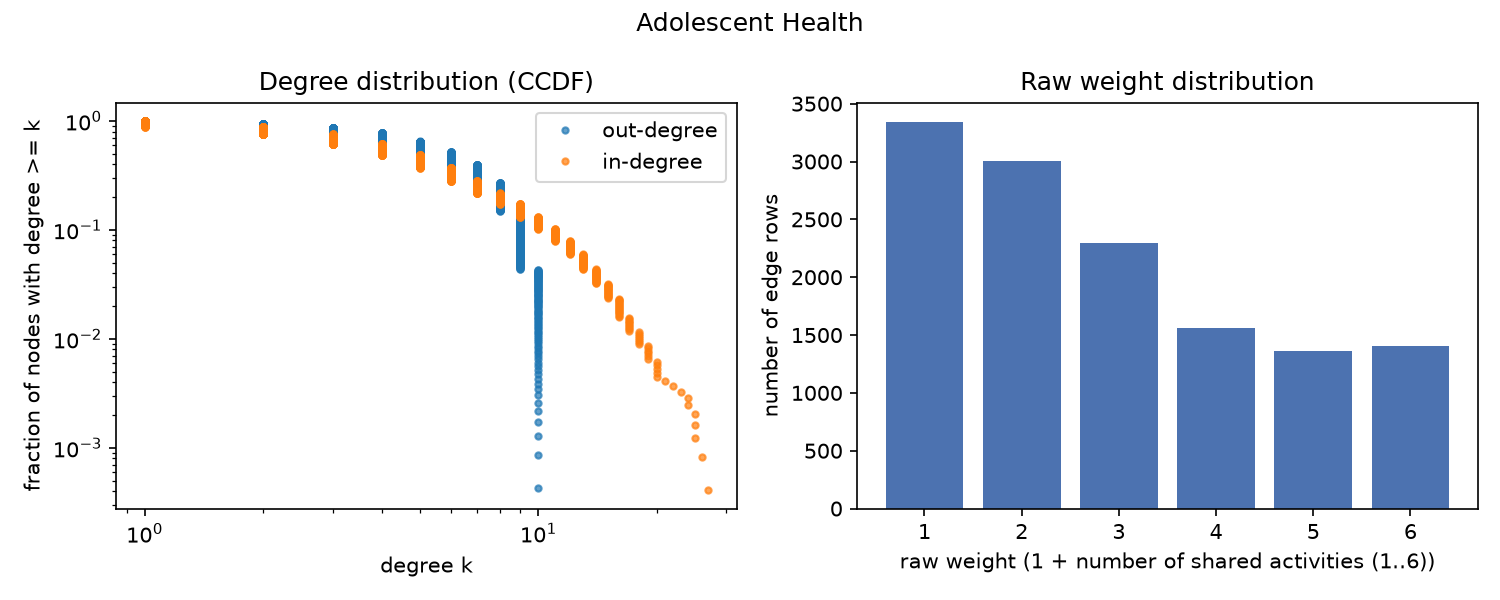
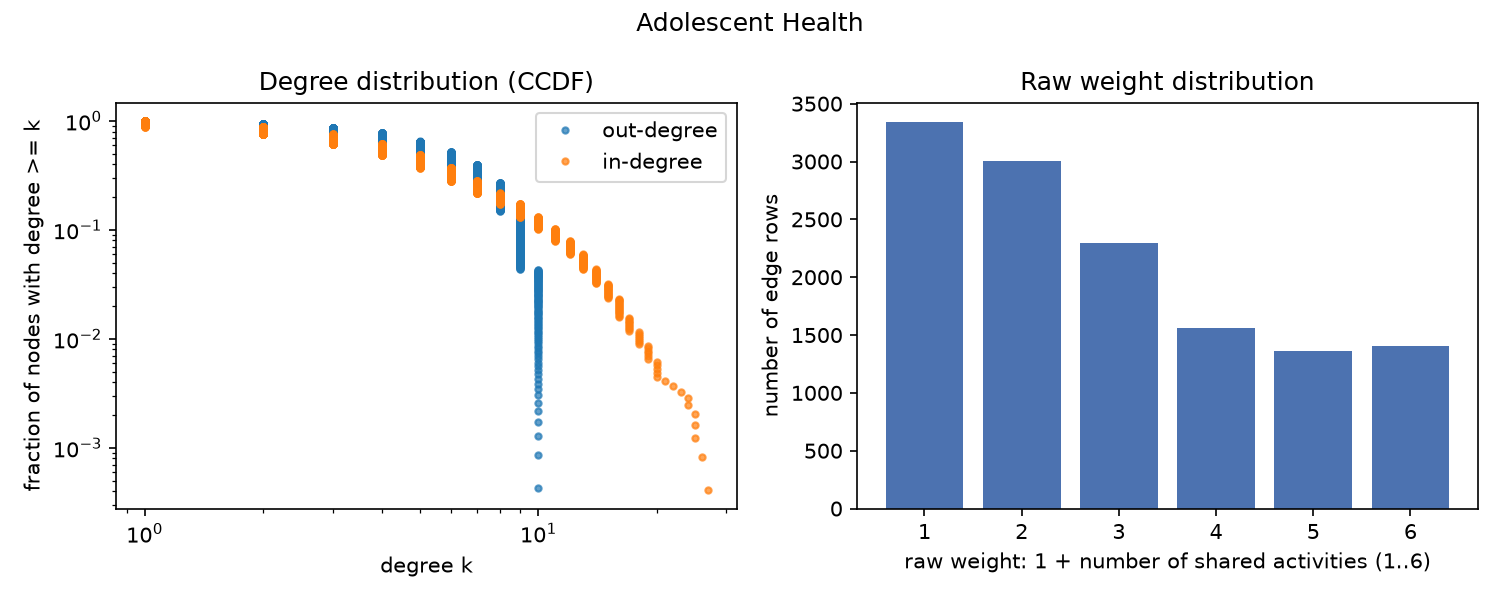
Phase 2: Advogato loader, decisions D6/D6b/D6c; Phase 2 complete
- load_advogato: Netzschleuder CSV zip with usernames; 0.6/0.8/1.0 trust
  levels (observer 0.4 never occurs); 3,992 self-certifications
- D6: distance = 1/trust level (same rule as D1, D5); never a detour since
  2 x 1.00 > 1.67. D6b: drop self-loops. D6c: drop unlinked users -> 5,155
- decisions.md: cross-dataset summary table and one-line rules
- describe script: non-overlapping bars, wrapped axis labels

Changed region(s): [[0.5827, 0.9, 0.9507, 0.96]]

diff --git a/tests/test_preprocess.py b/tests/test_preprocess.py
@@ -4,8 +4,8 @@ import numpy as np
 import pytest
 
 from apsp.loaders import Dataset
-from apsp.preprocess import (drop_isolated, friends_only_hops, inverse_weights, load_processed,
-                            save_processed, undirected_hops)
+from apsp.preprocess import (drop_isolated, drop_self_loops, friends_only_hops, inverse_weights,
+                            load_processed, save_processed, undirected_hops)
 from apsp.scipy_tier import apsp_dijkstra_scipy, edges_to_csr
 
 
@@ -86,3 +86,24 @@ def test_friends_only_removes_foes_and_mutual_foe_cycle():
     dist = apsp_dijkstra_scipy(edges_to_csr(out.n, list(zip(out.u, out.v, out.w))))
     assert dist[0].tolist() == [0, 1, 2]  # direction kept: forward chain reachable...
     assert dist[2, 0] == np.inf  # ...but not backwards
+
+
+# --- Advogato decisions (D6, D6b, D6c) --------------------------------------------------------------
+
+def test_self_loops_removed_then_self_only_node_is_isolated():
+    # Node 2 only certified itself; node 0 certified itself and node 1.
+    ds = Dataset("adv-mini", 3, u=np.array([0, 0, 2]), v=np.array([0, 1, 2]),
+                 w=np.array([0.8, 1.0, 0.6]), directed=True, weight_meaning="trust",
+                 labels=["ann", "bob", "cy"])
+    out = inverse_weights(drop_isolated(drop_self_loops(ds)))
+    assert out.n == 2 and out.labels == ["ann", "bob"]  # "cy" had only a self-loop: dropped
+    assert out.u.tolist() == [0] and out.v.tolist() == [1] and out.w.tolist() == [1.0]
+
+
+def test_advogato_levels_never_detour():
+    # Under 1/w the cheapest step is 1.0 (master) and the dearest 1/0.6 = 1.67 (apprentice), so any
+    # two-step chain (>= 2.0) loses to a direct certification, even the weakest one.
+    ds = inverse_weights(Dataset("adv", 3, u=np.array([0, 0, 1]), v=np.array([2, 1, 2]),
+                                 w=np.array([0.6, 1.0, 1.0]), directed=True, weight_meaning="trust"))
+    dist = apsp_dijkstra_scipy(edges_to_csr(ds.n, list(zip(ds.u, ds.v, ds.w))))
+    assert dist[0, 2] == pytest.approx(1 / 0.6)  # direct apprentice link beats master -> master

diff --git a/src/apsp/preprocess.py b/src/apsp/preprocess.py
@@ -8,10 +8,21 @@ from pathlib import Path
 
 import numpy as np
 
-from apsp.loaders import (Dataset, compact_ids, load_health, load_slashdot, load_usairport,
-                          load_wikiconflict)
+from apsp.loaders import (Dataset, compact_ids, load_advogato, load_health, load_slashdot,
+                          load_usairport, load_wikiconflict)
 
 PROCESSED_DIR = Path(__file__).resolve().parents[2] / "data" / "processed"
+
+
+def drop_self_loops(ds):
+    """Decision D6b: remove edges from a node to itself (Advogato self-certifications).
+
+    A node's distance to itself is 0 by definition, so a self-loop can never be on a shortest path;
+    it only adds edges for Dijkstra to scan. Run this BEFORE drop_isolated, so that nodes whose only
+    edge was a self-loop are dropped as isolated.
+    """
+    keep = ds.u != ds.v
+    return replace(ds, u=ds.u[keep], v=ds.v[keep], w=ds.w[keep])
 
 
 def drop_isolated(ds):
@@ -37,7 +48,7 @@ def undirected_hops(ds):
 
 
 def inverse_weights(ds):
-    """Decisions D1 and D5: distance = 1 / weight, so strong edges become short.
+    """Decisions D1, D5 and D6: distance = 1 / weight, so strong edges become short.
 
     Requires every weight > 0. A zero weight would become an infinite distance, which is the same as
     no edge, so it should have been dropped before this point (the US airport source already
@@ -87,6 +98,7 @@ PIPELINES = {
     "wikiconflict": (load_wikiconflict, [drop_isolated, undirected_hops]),  # D2b, then D2 + D3
     "slashdot": (load_slashdot, [friends_only_hops, drop_isolated]),  # D4, then D4b
     "health": (load_health, [inverse_weights]),  # D5 (same rule as D1)
+    "advogato": (load_advogato, [drop_self_loops, drop_isolated, inverse_weights]),  # D6b, D6c, D6
 }
 
 

diff --git a/src/apsp/loaders.py b/src/apsp/loaders.py
@@ -140,3 +140,32 @@ def load_health(raw_dir=RAW_DIR):
         weight_meaning="1 + number of shared activities (1..6)",  # a strength, not a distance
         source="http://konect.uni-koblenz.de/networks/moreno_health",
     )
+
+
+def load_advogato(raw_dir=RAW_DIR):
+    """Advogato trust network (Netzschleuder advogato = KONECT advogato), RAW, with usernames.
+
+    Directed: u -> v means "u certified v". Weight = trust level: apprentice 0.6, journeyer 0.8,
+    master 1.0 (observer 0.4 is documented but never occurs). Includes 3,992 self-certifications.
+    Read straight from the downloaded zip (SHA-256 in data/SOURCES.md).
+    """
+    path = Path(raw_dir) / "advogato" / "advogato.csv.zip"
+    with zipfile.ZipFile(path) as zf:
+        with zf.open("edges.csv") as f:
+            edges = pd.read_csv(f, comment="#", header=None, names=["u", "v", "w"],
+                                dtype={"u": np.int64, "v": np.int64, "w": float})
+        with zf.open("nodes.csv") as f:
+            nodes = pd.read_csv(f, comment="#", header=None, names=["i", "name", "pos"],
+                                dtype={"i": np.int64, "name": str})
+    labels = nodes.sort_values("i")["name"].tolist()
+    return Dataset(
+        name="Advogato",
+        n=len(labels),  # 6,541
+        u=edges["u"].to_numpy(),
+        v=edges["v"].to_numpy(),
+        w=edges["w"].to_numpy(),
+        directed=True,
+        weight_meaning="trust level (0.6 apprentice, 0.8 journeyer, 1.0 master)",
+        labels=labels,
+        source="https://networks.skewed.de/net/advogato/files/advogato.csv.zip",
+    )

diff --git a/tests/test_characteristics.py b/tests/test_characteristics.py
@@ -4,8 +4,8 @@ import numpy as np
 import pytest
 
 from apsp.characteristics import describe
-from apsp.loaders import (RAW_DIR, Dataset, compact_ids, load_health, load_slashdot,
-                          load_usairport, load_wikiconflict)
+from apsp.loaders import (RAW_DIR, Dataset, compact_ids, load_advogato, load_health,
+                          load_slashdot, load_usairport, load_wikiconflict)
 
 
 def test_compact_ids_uses_first_appearance_order():
@@ -75,3 +75,13 @@ def test_health_raw_counts():
     assert ds.n == 2_539 and len(ds.u) == 12_969  # KONECT header: % 12969 2539 2539
     assert set(np.unique(ds.w).tolist()) == {1.0, 2.0, 3.0, 4.0, 5.0, 6.0}
     assert np.bincount(ds.u).max() <= 10  # survey: at most 5 female + 5 male friends
+
+
+@pytest.mark.skipif(not (RAW_DIR / "advogato" / "advogato.csv.zip").exists(),
+                    reason="raw Advogato data not downloaded")
+def test_advogato_raw_counts():
+    ds = load_advogato()
+    assert ds.n == 6_541 and len(ds.u) == 51_127  # Netzschleuder num_vertices / num_edges
+    assert set(np.unique(ds.w).tolist()) == {0.6, 0.8, 1.0}  # observer (0.4) never occurs
+    assert int((ds.u == ds.v).sum()) == 3_992  # self-certifications
+    assert len(set(ds.labels)) == 6_541

diff --git a/scripts/describe_dataset.py b/scripts/describe_dataset.py
@@ -9,6 +9,7 @@ results/distributions_<slug>.png.
 """
 
 import sys
+import textwrap
 from pathlib import Path
 
 import matplotlib
@@ -90,12 +91,14 @@ def describe_one(slug):
         axes[1].set(xlabel="log10(raw weight)")
     elif (raw.w > 0).all():  # a few small values (e.g. 1..6): one bar per value
         values, counts = np.unique(raw.w, return_counts=True)
-        axes[1].bar(values, counts, color="#4c72b0")
-        axes[1].set(xlabel=f"raw weight ({raw.weight_meaning})")
+        width = 0.8 * (np.diff(values).min() if len(values) > 1 else 1)  # bars must not overlap
+        axes[1].bar(values, counts, width=width, color="#4c72b0")
+        axes[1].set_xticks(values)
+        axes[1].set(xlabel=textwrap.fill(f"raw weight: {raw.weight_meaning}", 55))
     else:
         axes[1].hist(raw.w, bins=80, color="#4c72b0")
         axes[1].axvline(0, color="black", linewidth=0.8)
-        axes[1].set(xlabel=f"raw weight ({raw.weight_meaning})")
+        axes[1].set(xlabel=textwrap.fill(f"raw weight: {raw.weight_meaning}", 55))
     axes[1].set(ylabel="number of edge rows", title="Raw weight distribution")
     fig.suptitle(ds.name)
     fig.tight_layout()

diff --git a/docs/decisions.md b/docs/decisions.md
@@ -237,3 +237,83 @@ news or influence could plausibly travel: through the close mutual friend.
   airports' 3.2. Fewer hubs means fewer shortcuts.
 - **Floating point:** distances like 1/3 and 1/6 are not exact in binary, so tests compare with a
   tolerance (as for D1).
+
+---
+
+## D6. Advogato: distance = 1 / trust level (decided 2026-10-12)
+
+### What we chose
+The same rule as US Airports (D1) and Adolescent Health (D5): **distance = 1 / weight**, direction
+kept. An edge "A certified B" has a trust level of apprentice (0.6), journeyer (0.8) or master (1.0).
+
+| Level | Weight | Distance |
+|---|---|---|
+| master | 1.0 | 1.00 |
+| journeyer | 0.8 | 1.25 |
+| apprentice | 0.6 | 1.67 |
+
+### Plain-language explanation
+On Advogato, open-source developers vouched for each other's skill. A higher level means stronger
+trust, so we flip it (1 / level) to get a distance where stronger trust means closer.
+
+Something special happens with this dataset: **a direct certification is always the shortest
+route.** The cheapest possible step costs 1.00 (master) and the most expensive costs 1.67
+(apprentice). Any chain of two or more steps costs at least 1.00 + 1.00 = 2.00, which is more than
+the dearest single step. So the trust levels never make a detour worthwhile. They only decide
+between routes with the *same* number of steps, preferring those through "master" certifications.
+In practice, distance here means "the fewest certification steps, with ties broken by trust level".
+
+### Why this option
+- **One rule for all three strength-weighted datasets** (D1, D5, D6).
+- The standard transformation in the literature (Opsahl et al., 2010).
+
+### Alternatives considered
+| Option | Why not chosen |
+|---|---|
+| Hops (ignore levels) | discards the trust levels; under 1/w they still break ties |
+| -log(level) (trust as a probability multiplied along a chain) | master = -log 1 = 0, so chains of masters would cost nothing (zero-weight edges, and an odd meaning) |
+
+### Consequences (must be discussed in the report)
+- **The same rule behaves very differently depending on how spread out the weights are.** Share of
+  direct links that lose to a multi-step chain under 1/w:
+
+  | Dataset | Weight range | Direct links bypassed |
+  |---|---|---|
+  | US Airports | 1 .. 1,489,618 | 86.9% |
+  | Adolescent Health | 1 .. 6 | 8.0% |
+  | Advogato | 0.6 .. 1.0 | 0% (impossible: 2 x 1.00 > 1.67) |
+
+- The "observer" level (0.4) is documented but never occurs in the data.
+
+## D6b. Advogato: drop self-certifications (decided 2026-10-12)
+
+3,992 edges (7.8%) are users certifying themselves. We **remove them**.
+
+*Plain language:* rating your own skill is not a link between two people. Your distance to yourself
+is 0 by definition, so a self-loop can never be part of a shortest path. Keeping them would only
+give Dijkstra 3,992 extra edges to scan for nothing, and would inflate m in the complexity formulas.
+
+## D6c. Advogato: drop users with no links to others (decided 2026-10-12)
+
+The D2b rule, applied **after** D6b. 2 users appear in no edge, and 1,384 more only certified
+themselves, so 1,386 users have no link to anyone else: **n = 6,541 -> 5,155**, edges 51,127 -> 47,135.
+
+---
+
+## Summary: all five datasets after preprocessing
+
+| Dataset | Directed | n | One-way edges | Distance | Decisions | FW table (float64) |
+|---|---|---|---|---|---|---|
+| US Airports | yes | 1,574 | 28,236 | 1 / passengers | D1 | 19 MiB |
+| Adolescent Health | yes | 2,539 | 12,969 | 1 / (1 + shared activities) | D5 | 49 MiB |
+| Advogato | yes | 5,155 | 47,135 | 1 / trust level | D6, D6b, D6c | 203 MiB |
+| Slashdot Zoo | yes | 69,995 | 392,179 | hops, friend tags only | D4, D4b | 36.5 GiB |
+| Wiki Conflict | no (stored both ways) | 116,836 | 4,055,742 | hops, all interactions | D2, D2b, D3 | 101.7 GiB |
+
+Rules in one sentence each:
+- **Strength weights** (passengers, shared activities, trust): distance = 1 / weight.
+- **Signed weights** (friend/foe, agree/disagree): negative loops make raw weights unusable. Slashdot
+  keeps friend tags only (the sign defines the relationship); Wiki Conflict keeps every interaction
+  (both signs show two editors worked on the same text). Both use hops.
+- **Nodes with no links** are dropped everywhere; **self-loops and repeats** never affect a
+  shortest path and are removed.

diff --git a/data/SOURCES.md b/data/SOURCES.md
@@ -99,3 +99,24 @@ Notes (verified 2026-10-12):
   weight shows that there is no common activity at all", number missing). The 1..6 range and the
   5-activity design are described in a secondary source (arXiv:0912.0161); the exact "1 + count"
   mapping is our inference, consistent with both.
+
+## Advogato (`data/raw/advogato/`)
+
+| File | Source | SHA-256 |
+|---|---|---|
[4 lines of base64/hex data omitted]
+
+Metadata: https://networks.skewed.de/api/net/advogato. Original: KONECT advogato; P. Massa,
+M. Salvetti, D. Tomasoni (2009), "Bowling alone and trust decline in social network sites", IEEE DASC.
+
+Notes (verified 2026-10-12):
+- **Directed:** u -> v means "u certified v". Weight = declared trust level: observer 0.4,
+  apprentice 0.6, journeyer 0.8, master 1.0 (Netzschleuder description).
+- **Observer level absent:** no row has weight 0.4. Counts: 0.6: 10,554; 0.8: 22,570; 1.0: 18,003.
+- **Size:** 51,127 rows, 6,541 nodes, matching Netzschleuder. No duplicate rows. Ids 0-based.
+- **Self-loops:** 3,992 rows (7.8%) are users certifying themselves.
+- **Nodes:** all 6,541 have unique usernames. 2 ids appear in no row; 1,384 more appear only in
+  self-loops, so 1,386 users have no link to anyone else.

diff --git a/CLAUDE.md b/CLAUDE.md
@@ -19,7 +19,7 @@ This is a learning project. Work in small steps.
 
 - [x] 0. Environment: git init + .gitignore, venv, install requirements, freeze `requirements-lock.txt`, repo layout
 - [x] 1. Implement + validate both algorithms on toy graphs (hand-checkable example + random small graphs vs networkx)
-- [ ] 2. Load/preprocess datasets; record characteristics (n, m, density, degree stats, components, weighted/signed, reachable-pair fraction).
+- [x] 2. Load/preprocess datasets; record characteristics (n, m, density, degree stats, components, weighted/signed, reachable-pair fraction).
       Record source URL + SHA-256 checksum of every downloaded archive.
 - [ ] 3. Benchmark harness: wall time, peak memory, timeout, feasibility pre-check (estimate n² memory, n³ ops before running)
 - [ ] 4. Run datasets smallest → largest; report infeasible runs with complexity-based explanation
@@ -84,7 +84,8 @@ Decided items are logged in `docs/decisions.md` (with a plain-language explanati
       D4, D4b in docs/decisions.md.
 - [x] US Airports: distance = 1 / passengers; nodes = the 1,574 airports with routes (D1 in docs/decisions.md).
 - [x] Adolescent Health: distance = 1 / weight (weights 1..6), same rule as D1; no nodes dropped (D5).
-- [ ] Advogato (strength-type trust weights): raw, 1/w, -log w, or unweighted?
+- [x] Advogato: distance = 1 / trust level; self-certifications and unlinked users dropped
+      (n = 5,155). D6, D6b, D6c.
 - [ ] Directed vs undirected treatment per dataset (keep native direction unless decided otherwise).
 - [ ] Multi-edges (e.g. Wiki Conflict has repeated/timestamped edges): keep min, keep one, or aggregate?
 
